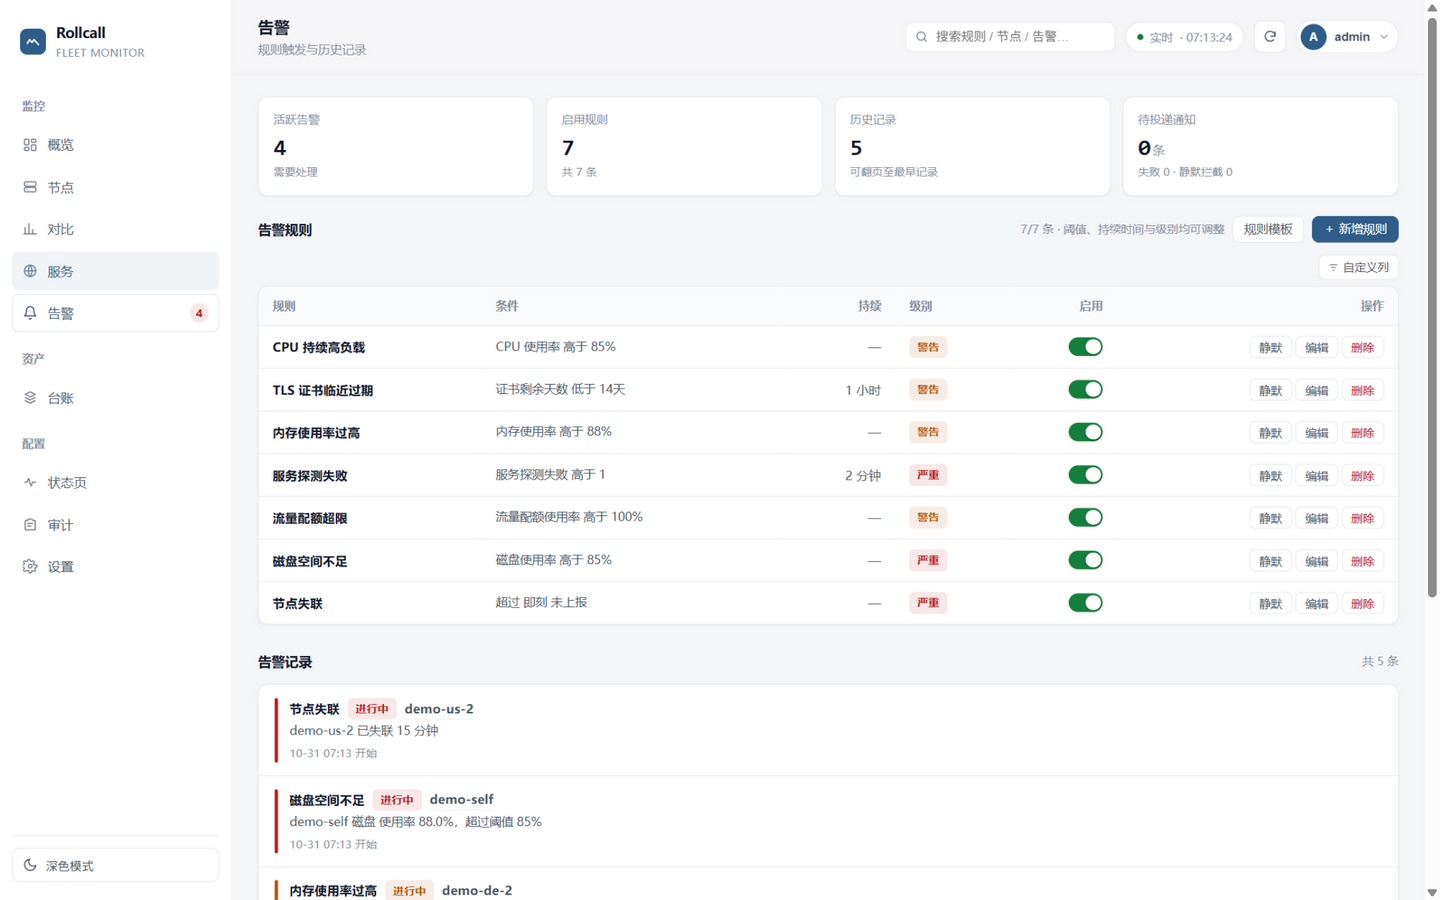
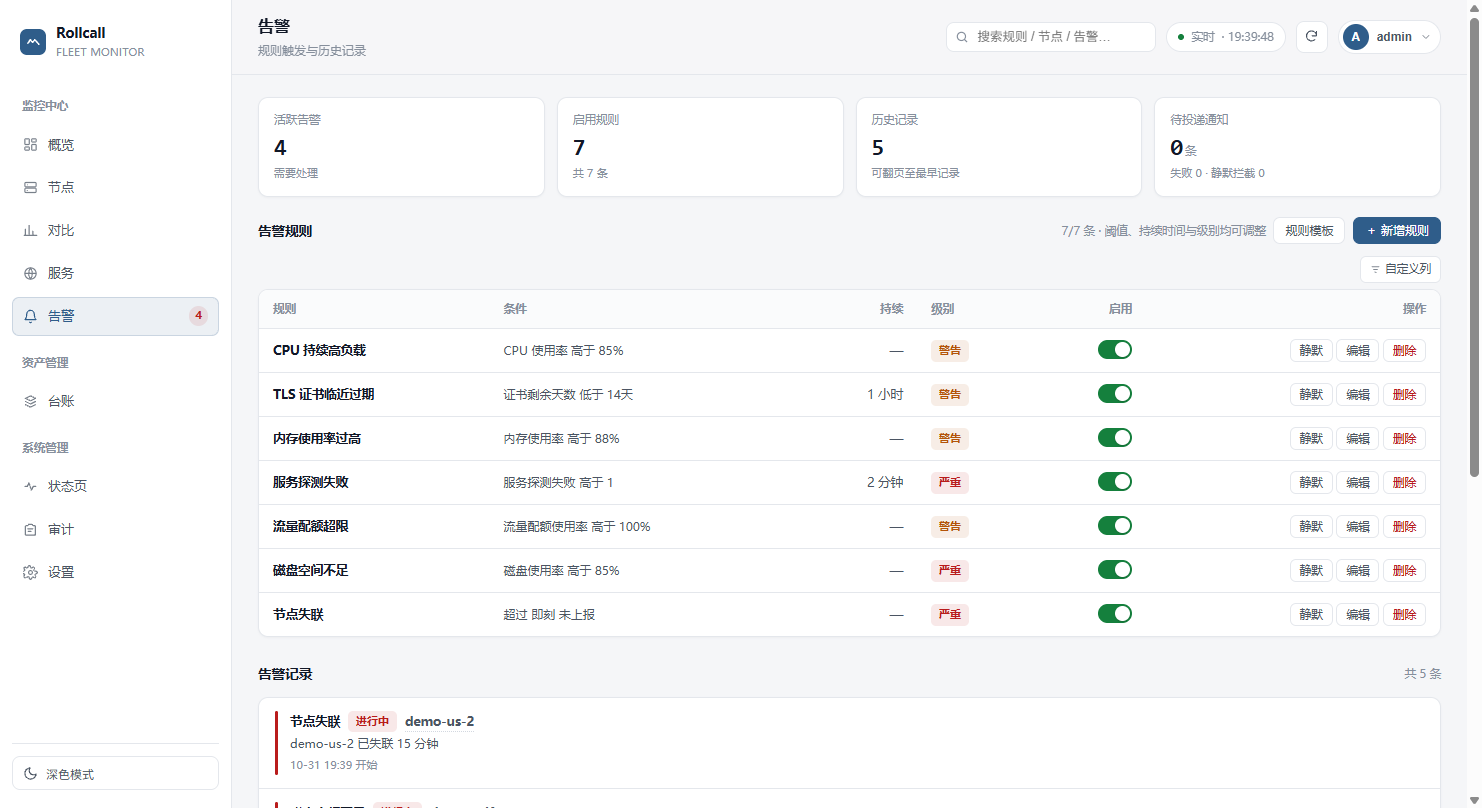
privacy: 厂商名统一——演示与文档只保留棉花云/腾讯云
- 面板演示种子（云甲…云壬）、/monitor mock（DemoVM/RackNerd/Vultr/Cera/Oracle/阿里云、
  含节点名与 mock ID）全部替换为棉花云/腾讯云；自建/家宽保留
- 输入占位符与文档示例（racknerd）改用两家里任何组合；model.go 注释同步
- netguard 的 metadata IP 注释去厂商化（保留 100.64/10 技术事实）
- 测试夹具（mcpserver/nodesimport）去厂商名
- 演示截图 9 张重拍：同步 v1.46 UI（页签式设置/侧栏分组）与新演示数据

diff --git a/monitor-panel/index.html b/monitor-panel/index.html
@@ -949,19 +949,19 @@ const RANGES = {
    缺失的（如内核、CPU 型号）显示为"未上报"而不是编造。
    ------------------------------------------------------------ */
 const NODES = [
-  { id: 'n_control', name: 'demo-control', group: '生产', provider: 'DemoHost', region: 'IN', flag: '🇮🇳',
+  { id: 'n_control', name: 'demo-control', group: '生产', provider: '棉花云', region: 'IN', flag: '🇮🇳',
     os: 'Debian 12', arch: 'x86_64', kernel: '6.1.0-18-amd64', cpuModel: 'AMD EPYC 7K62', cores: 4,
     memTotal: 8 * 2 ** 30, diskTotal: 80 * 2 ** 30,
     base: { cpu: 11, mem: 38, disk: 31, load: 0.55, rx: 1.9e6, tx: 1.2e6 }, latency: 57 },
-  { id: 'n_bestvm', name: 'demo-de', group: '生产', provider: 'DemoVM', region: 'DE', flag: '🇩🇪',
+  { id: 'n_de', name: 'demo-de', group: '生产', provider: '腾讯云', region: 'DE', flag: '🇩🇪',
     os: 'Ubuntu 24.04', arch: 'x86_64', kernel: '6.8.0-45-generic', cpuModel: 'Intel Xeon Gold 6230', cores: 6,
     memTotal: 4 * 2 ** 30, diskTotal: 100 * 2 ** 30,
     base: { cpu: 24, mem: 63, disk: 66, load: 1.2, rx: 4.4e6, tx: 3.1e6 }, latency: 78 },
-  { id: 'n_dmit', name: 'demo-lax', group: '生产', provider: 'DemoNet', region: 'US', flag: '🇺🇸',
+  { id: 'n_lax', name: 'demo-lax', group: '生产', provider: '棉花云', region: 'US', flag: '🇺🇸',
     os: 'Debian 11', arch: 'x86_64', kernel: '5.10.0-32-amd64', cpuModel: 'AMD EPYC 7402P', cores: 8,
     memTotal: 8 * 2 ** 30, diskTotal: 200 * 2 ** 30,
     base: { cpu: 31, mem: 49, disk: 22, load: 0.9, rx: 6.2e6, tx: 5.8e6 }, latency: 152 },
-  { id: 'n_hostyun', name: 'demo-hk', group: '生产', provider: 'DemoYun', region: 'HK', flag: '🇭🇰',
+  { id: 'n_hk', name: 'demo-hk', group: '生产', provider: '腾讯云', region: 'HK', flag: '🇭🇰',
     os: 'Ubuntu 22.04', arch: 'x86_64', kernel: '5.15.0-118-generic', cpuModel: 'Intel Xeon E5-2680 v4', cores: 4,
     memTotal: 4 * 2 ** 30, diskTotal: 60 * 2 ** 30,
     base: { cpu: 44, mem: 71, disk: 58, load: 1.8, rx: 8.1e6, tx: 7.3e6 }, latency: 34 },
@@ -969,27 +969,27 @@ const NODES = [
     os: 'Ubuntu 22.04', arch: 'x86_64', kernel: '5.15.0-113-generic', cpuModel: 'Intel Xeon Platinum 8255C', cores: 4,
     memTotal: 4 * 2 ** 30, diskTotal: 60 * 2 ** 30,
     base: { cpu: 18, mem: 52, disk: 47, load: 0.7, rx: 2.6e6, tx: 2.2e6 }, latency: 12 },
-  { id: 'n_ali_cd', name: 'demo-cd', group: '边缘', provider: '阿里云', region: 'CN', flag: '🇨🇳',
+  { id: 'n_cd', name: 'demo-cd', group: '边缘', provider: '棉花云', region: 'CN', flag: '🇨🇳',
     os: 'Alibaba Cloud Linux 3', arch: 'x86_64', kernel: '5.10.134-16.al8', cpuModel: 'Intel Xeon Platinum 8369B', cores: 2,
     memTotal: 4 * 2 ** 30, diskTotal: 40 * 2 ** 30,
     base: { cpu: 27, mem: 44, disk: 39, load: 0.5, rx: 1.4e6, tx: 1.1e6 }, latency: 21 },
-  { id: 'n_lvyun', name: 'demo-jp', group: '边缘', provider: 'DemoCloud', region: 'JP', flag: '🇯🇵',
+  { id: 'n_jp', name: 'demo-jp', group: '边缘', provider: '腾讯云', region: 'JP', flag: '🇯🇵',
     os: 'Debian 12', arch: 'x86_64', kernel: '6.1.0-26-amd64', cpuModel: 'Intel Xeon E5-2696 v4', cores: 2,
     memTotal: 2 * 2 ** 30, diskTotal: 40 * 2 ** 30,
     base: { cpu: 62, mem: 88, disk: 73, load: 2.4, rx: 3.3e6, tx: 2.9e6 }, latency: 96 },
-  { id: 'n_wu', name: 'cera-洛杉矶', group: '边缘', provider: 'Cera', region: 'US', flag: '🇺🇸',
+  { id: 'n_lv', name: 'demo-lv', group: '边缘', provider: '棉花云', region: 'US', flag: '🇺🇸',
     os: 'Debian 12', arch: 'x86_64', kernel: '6.1.0-21-amd64', cpuModel: 'AMD EPYC 7B13', cores: 2,
     memTotal: 2 * 2 ** 30, diskTotal: 40 * 2 ** 30,
     base: { cpu: 9, mem: 33, disk: 18, load: 0.3, rx: 1.1e6, tx: 0.9e6 }, latency: 168 },
-  { id: 'n_rn', name: 'racknerd-西雅图', group: '边缘', provider: 'RackNerd', region: 'US', flag: '🇺🇸',
+  { id: 'n_sea', name: 'demo-sea', group: '边缘', provider: '腾讯云', region: 'US', flag: '🇺🇸',
     os: 'CentOS 7', arch: 'x86_64', kernel: '3.10.0-1160.el7', cpuModel: 'Intel Xeon E5-2690 v4', cores: 2,
     memTotal: 2 * 2 ** 30, diskTotal: 30 * 2 ** 30,
     base: { cpu: 7, mem: 61, disk: 88, load: 0.2, rx: 0.7e6, tx: 0.5e6 }, latency: 189 },
-  { id: 'n_vultr', name: 'vultr-法兰克福', group: '边缘', provider: 'Vultr', region: 'DE', flag: '🇩🇪',
+  { id: 'n_fr', name: 'demo-fr', group: '边缘', provider: '棉花云', region: 'DE', flag: '🇩🇪',
     os: 'Ubuntu 24.04', arch: 'x86_64', kernel: '6.8.0-41-generic', cpuModel: 'AMD EPYC 7R13', cores: 2,
     memTotal: 4 * 2 ** 30, diskTotal: 80 * 2 ** 30,
     base: { cpu: 15, mem: 29, disk: 26, load: 0.4, rx: 1.6e6, tx: 1.3e6 }, latency: 142 },
-  { id: 'n_oracle', name: 'oracle-大阪', group: '实验', provider: 'Oracle', region: 'JP', flag: '🇯🇵',
+  { id: 'n_osaka', name: 'demo-osaka', group: '实验', provider: '腾讯云', region: 'JP', flag: '🇯🇵',
     os: 'Ubuntu 22.04', arch: 'aarch64', kernel: '5.15.0-119-generic', cpuModel: 'Ampere Altra Q80-30', cores: 4,
     memTotal: 24 * 2 ** 30, diskTotal: 200 * 2 ** 30,
     base: { cpu: 5, mem: 17, disk: 9, load: 0.12, rx: 0.4e6, tx: 0.3e6 }, latency: 88 },
@@ -997,7 +997,7 @@ const NODES = [
     os: 'Debian 12', arch: 'x86_64', kernel: '6.1.0-25-amd64', cpuModel: 'Intel N100', cores: 4,
     memTotal: 16 * 2 ** 30, diskTotal: 500 * 2 ** 30,
     base: { cpu: 21, mem: 34, disk: 41, load: 0.8, rx: 5.1e6, tx: 4.2e6 }, latency: 8 },
-  { id: 'n_test', name: 'test-01', group: '实验', provider: '阿里云', region: 'CN', flag: '🇨🇳',
+  { id: 'n_test', name: 'test-01', group: '实验', provider: '棉花云', region: 'CN', flag: '🇨🇳',
     os: 'Debian 12', arch: 'x86_64', kernel: '6.1.0-18-cloud-amd64', cpuModel: 'Intel Xeon Platinum 8269CY', cores: 2,
     memTotal: 2 * 2 ** 30, diskTotal: 40 * 2 ** 30,
     base: { cpu: 3, mem: 22, disk: 15, load: 0.08, rx: 0.2e6, tx: 0.15e6 }, latency: 19 },

diff --git a/internal/web/dist/monitor.js b/internal/web/dist/monitor.js
@@ -45,19 +45,19 @@ const RANGES = {
    缺失的（如内核、CPU 型号）显示为"未上报"而不是编造。
    ------------------------------------------------------------ */
 const NODES = [
-  { id: 'n_control', name: 'demo-control', group: '生产', provider: 'DemoHost', region: 'IN', flag: '🇮🇳',
+  { id: 'n_control', name: 'demo-control', group: '生产', provider: '棉花云', region: 'IN', flag: '🇮🇳',
     os: 'Debian 12', arch: 'x86_64', kernel: '6.1.0-18-amd64', cpuModel: 'AMD EPYC 7K62', cores: 4,
     memTotal: 8 * 2 ** 30, diskTotal: 80 * 2 ** 30,
     base: { cpu: 11, mem: 38, disk: 31, load: 0.55, rx: 1.9e6, tx: 1.2e6 }, latency: 57 },
-  { id: 'n_bestvm', name: 'demo-de', group: '生产', provider: 'DemoVM', region: 'DE', flag: '🇩🇪',
+  { id: 'n_de', name: 'demo-de', group: '生产', provider: '腾讯云', region: 'DE', flag: '🇩🇪',
     os: 'Ubuntu 24.04', arch: 'x86_64', kernel: '6.8.0-45-generic', cpuModel: 'Intel Xeon Gold 6230', cores: 6,
     memTotal: 4 * 2 ** 30, diskTotal: 100 * 2 ** 30,
     base: { cpu: 24, mem: 63, disk: 66, load: 1.2, rx: 4.4e6, tx: 3.1e6 }, latency: 78 },
-  { id: 'n_dmit', name: 'demo-lax', group: '生产', provider: 'DemoNet', region: 'US', flag: '🇺🇸',
+  { id: 'n_lax', name: 'demo-lax', group: '生产', provider: '棉花云', region: 'US', flag: '🇺🇸',
     os: 'Debian 11', arch: 'x86_64', kernel: '5.10.0-32-amd64', cpuModel: 'AMD EPYC 7402P', cores: 8,
     memTotal: 8 * 2 ** 30, diskTotal: 200 * 2 ** 30,
     base: { cpu: 31, mem: 49, disk: 22, load: 0.9, rx: 6.2e6, tx: 5.8e6 }, latency: 152 },
-  { id: 'n_hostyun', name: 'demo-hk', group: '生产', provider: 'DemoYun', region: 'HK', flag: '🇭🇰',
+  { id: 'n_hk', name: 'demo-hk', group: '生产', provider: '腾讯云', region: 'HK', flag: '🇭🇰',
     os: 'Ubuntu 22.04', arch: 'x86_64', kernel: '5.15.0-118-generic', cpuModel: 'Intel Xeon E5-2680 v4', cores: 4,
     memTotal: 4 * 2 ** 30, diskTotal: 60 * 2 ** 30,
     base: { cpu: 44, mem: 71, disk: 58, load: 1.8, rx: 8.1e6, tx: 7.3e6 }, latency: 34 },
@@ -65,27 +65,27 @@ const NODES = [
     os: 'Ubuntu 22.04', arch: 'x86_64', kernel: '5.15.0-113-generic', cpuModel: 'Intel Xeon Platinum 8255C', cores: 4,
     memTotal: 4 * 2 ** 30, diskTotal: 60 * 2 ** 30,
     base: { cpu: 18, mem: 52, disk: 47, load: 0.7, rx: 2.6e6, tx: 2.2e6 }, latency: 12 },
-  { id: 'n_ali_cd', name: 'demo-cd', group: '边缘', provider: '阿里云', region: 'CN', flag: '🇨🇳',
+  { id: 'n_cd', name: 'demo-cd', group: '边缘', provider: '棉花云', region: 'CN', flag: '🇨🇳',
     os: 'Alibaba Cloud Linux 3', arch: 'x86_64', kernel: '5.10.134-16.al8', cpuModel: 'Intel Xeon Platinum 8369B', cores: 2,
     memTotal: 4 * 2 ** 30, diskTotal: 40 * 2 ** 30,
     base: { cpu: 27, mem: 44, disk: 39, load: 0.5, rx: 1.4e6, tx: 1.1e6 }, latency: 21 },
-  { id: 'n_lvyun', name: 'demo-jp', group: '边缘', provider: 'DemoCloud', region: 'JP', flag: '🇯🇵',
+  { id: 'n_jp', name: 'demo-jp', group: '边缘', provider: '腾讯云', region: 'JP', flag: '🇯🇵',
     os: 'Debian 12', arch: 'x86_64', kernel: '6.1.0-26-amd64', cpuModel: 'Intel Xeon E5-2696 v4', cores: 2,
     memTotal: 2 * 2 ** 30, diskTotal: 40 * 2 ** 30,
     base: { cpu: 62, mem: 88, disk: 73, load: 2.4, rx: 3.3e6, tx: 2.9e6 }, latency: 96 },
-  { id: 'n_wu', name: 'cera-洛杉矶', group: '边缘', provider: 'Cera', region: 'US', flag: '🇺🇸',
+  { id: 'n_lv', name: 'demo-lv', group: '边缘', provider: '棉花云', region: 'US', flag: '🇺🇸',
     os: 'Debian 12', arch: 'x86_64', kernel: '6.1.0-21-amd64', cpuModel: 'AMD EPYC 7B13', cores: 2,
     memTotal: 2 * 2 ** 30, diskTotal: 40 * 2 ** 30,
     base: { cpu: 9, mem: 33, disk: 18, load: 0.3, rx: 1.1e6, tx: 0.9e6 }, latency: 168 },
-  { id: 'n_rn', name: 'racknerd-西雅图', group: '边缘', provider: 'RackNerd', region: 'US', flag: '🇺🇸',
+  { id: 'n_sea', name: 'demo-sea', group: '边缘', provider: '腾讯云', region: 'US', flag: '🇺🇸',
     os: 'CentOS 7', arch: 'x86_64', kernel: '3.10.0-1160.el7', cpuModel: 'Intel Xeon E5-2690 v4', cores: 2,
     memTotal: 2 * 2 ** 30, diskTotal: 30 * 2 ** 30,
     base: { cpu: 7, mem: 61, disk: 88, load: 0.2, rx: 0.7e6, tx: 0.5e6 }, latency: 189 },
-  { id: 'n_vultr', name: 'vultr-法兰克福', group: '边缘', provider: 'Vultr', region: 'DE', flag: '🇩🇪',
+  { id: 'n_fr', name: 'demo-fr', group: '边缘', provider: '棉花云', region: 'DE', flag: '🇩🇪',
     os: 'Ubuntu 24.04', arch: 'x86_64', kernel: '6.8.0-41-generic', cpuModel: 'AMD EPYC 7R13', cores: 2,
     memTotal: 4 * 2 ** 30, diskTotal: 80 * 2 ** 30,
     base: { cpu: 15, mem: 29, disk: 26, load: 0.4, rx: 1.6e6, tx: 1.3e6 }, latency: 142 },
-  { id: 'n_oracle', name: 'oracle-大阪', group: '实验', provider: 'Oracle', region: 'JP', flag: '🇯🇵',
+  { id: 'n_osaka', name: 'demo-osaka', group: '实验', provider: '腾讯云', region: 'JP', flag: '🇯🇵',
     os: 'Ubuntu 22.04', arch: 'aarch64', kernel: '5.15.0-119-generic', cpuModel: 'Ampere Altra Q80-30', cores: 4,
     memTotal: 24 * 2 ** 30, diskTotal: 200 * 2 ** 30,
     base: { cpu: 5, mem: 17, disk: 9, load: 0.12, rx: 0.4e6, tx: 0.3e6 }, latency: 88 },
@@ -93,7 +93,7 @@ const NODES = [
     os: 'Debian 12', arch: 'x86_64', kernel: '6.1.0-25-amd64', cpuModel: 'Intel N100', cores: 4,
     memTotal: 16 * 2 ** 30, diskTotal: 500 * 2 ** 30,
     base: { cpu: 21, mem: 34, disk: 41, load: 0.8, rx: 5.1e6, tx: 4.2e6 }, latency: 8 },
-  { id: 'n_test', name: 'test-01', group: '实验', provider: '阿里云', region: 'CN', flag: '🇨🇳',
+  { id: 'n_test', name: 'test-01', group: '实验', provider: '棉花云', region: 'CN', flag: '🇨🇳',
     os: 'Debian 12', arch: 'x86_64', kernel: '6.1.0-18-cloud-amd64', cpuModel: 'Intel Xeon Platinum 8269CY', cores: 2,
     memTotal: 2 * 2 ** 30, diskTotal: 40 * 2 ** 30,
     base: { cpu: 3, mem: 22, disk: 15, load: 0.08, rx: 0.2e6, tx: 0.15e6 }, latency: 19 },

diff --git a/internal/web/dist/app.js b/internal/web/dist/app.js
@@ -1367,7 +1367,7 @@ function bindBatchOps(list) {
   const reload = () => { state.data.nodes = null; viewNodes(); };
   const PROMPTS = {
     group: { label: '新分组名', ph: '例如：prod', def: '' },
-    provider: { label: '服务商', ph: '例如：racknerd', def: '' },
+    provider: { label: '服务商', ph: '例如：棉花云', def: '' },
     region: { label: '地区', ph: '例如：香港', def: '' },
     expire: { label: '到期日（YYYY-MM-DD，留空清除）', ph: '2027-01-31', def: '' },
     currency: { label: '币种（USD / CNY）', ph: 'USD', def: 'USD' },
@@ -3905,7 +3905,7 @@ async function viewSettings() {
         <form id="nodeImportForm">
           <label class="field">
             <span class="field-label">节点列表</span>
-            <textarea name="list" rows="5" placeholder="香港-01,racknerd,圣何塞,US,prod
+            <textarea name="list" rows="5" placeholder="香港-01,腾讯云,香港,CN,prod
 东京-02,绿云,东京,JP,prod"></textarea>
           </label>
           <div class="form-actions"><button class="btn primary" type="submit">导入并生成接入命令</button></div>
@@ -3915,7 +3915,7 @@ async function viewSettings() {
         <summary class="sum">＋ 新增节点</summary>
         <form id="nodeForm" class="form-grid">
           ${field('名称', 'name', '', { required: true, placeholder: '例如 prod-01', hint: '会显示在公开状态页，勿填主机名/IP' })}
-          ${field('服务商', 'provider', '', { placeholder: 'racknerd / 腾讯云 …' })}
+          ${field('服务商', 'provider', '', { placeholder: '棉花云 / 腾讯云 …' })}
           ${field('位置', 'region', '', { placeholder: '美国 / 香港 …' })}
           ${field('国家代码', 'country', '', { placeholder: 'US / JP / DE', hint: '两位 ISO 代码，用于公开页分布图' })}
           ${field('分组', 'group', '', { placeholder: 'prod / test' })}
@@ -5953,7 +5953,7 @@ function showNodeEdit(n, after) {
     <p class="modal-sub">节点名称会显示在公开状态页，请勿填写主机名、IP 或可识别信息。</p>
     <form id="editNodeForm" class="form-grid">
       ${field('名称', 'name', n.name, { required: true, placeholder: '例如 prod-01' })}
-      ${field('服务商', 'provider', n.provider, { placeholder: 'racknerd / 腾讯云 …' })}
+      ${field('服务商', 'provider', n.provider, { placeholder: '棉花云 / 腾讯云 …' })}
       ${field('位置', 'region', n.region, { placeholder: '美国 / 香港 …' })}
       ${field('国家代码', 'country', n.country, { placeholder: 'US / JP / DE', hint: '两位 ISO 代码，公开页分布图使用' })}
       ${field('分组', 'group', n.group, { placeholder: 'prod / test' })}
@@ -7024,8 +7024,8 @@ function showAgentWizard() {
     <div class="modal-title">接入新节点</div>
     <p class="modal-sub">填写台账信息并创建，随后会生成一条在目标服务器上执行的安装命令。</p>
     <form id="wizardForm" class="form-grid">
-      ${field('名称', 'name', '', { required: true, placeholder: '例如 racknerd-纽约' })}
-      ${field('服务商', 'provider', '', { placeholder: 'racknerd / 腾讯云 …' })}
+      ${field('名称', 'name', '', { required: true, placeholder: '例如 腾讯云-上海' })}
+      ${field('服务商', 'provider', '', { placeholder: '棉花云 / 腾讯云 …' })}
       ${field('位置', 'region', '', { placeholder: '美国 / 香港 …' })}
       ${field('分组', 'group', 'prod', { placeholder: 'prod / test / probe' })}
       ${field('到期日', 'expireAt', '', { placeholder: '2027-06-01' })}

diff --git a/cmd/server/seed.go b/cmd/server/seed.go
@@ -21,20 +21,20 @@ func seedDemo(st *store.Store) {
 	}
 
 	specs := []spec{
-		{"n01", "demo-sg", "云甲", "新加坡", "prod", "2030-03-07", "Debian 12", 0, "CNY", 22, 38, 58},
-		{"n02", "demo-sh", "云甲", "上海", "prod", "2027-06-12", "Debian 13", 0, "CNY", 34, 55, 71},
-		{"n03", "demo-cd", "云乙", "成都", "prod", "2027-01-20", "Ubuntu 22.04", 0, "CNY", 18, 44, 62},
-		{"n04", "demo-hk", "云丙", "香港", "prod", "2026-12-01", "Ubuntu 22.04", 0, "CNY", 27, 41, 49},
-		{"n05", "demo-de-1", "云丁", "德国", "probe", "2027-03-15", "Debian 12", 6.5, "USD", 12, 31, 34},
-		{"n06", "demo-de-2", "云丁", "德国", "prod", "2027-08-02", "Debian 12", 14.0, "USD", 41, 63, 77},
-		{"n07", "demo-us-1", "云戊", "美国", "probe", "2027-02-18", "Debian 12", 11.0, "USD", 8, 22, 28},
-		{"n08", "demo-us-2", "云戊", "美国", "probe", "2026-11-09", "Debian 12", 11.0, "USD", 16, 37, 41},
-		{"n09", "demo-us-3", "云戊", "美国", "test", "2026-10-28", "Debian 12", 9.5, "USD", 5, 19, 23},
-		{"n10", "demo-us-4", "云己", "美国", "prod", "2027-05-30", "Debian 12", 49.9, "USD", 33, 52, 66},
-		{"n11", "demo-us-5", "云己", "美国", "prod", "2027-04-11", "Debian 12", 36.9, "USD", 45, 58, 72},
-		{"n12", "demo-hk-2", "云庚", "香港", "probe", "2026-12-25", "Debian 12", 0, "CNY", 9, 26, 31},
-		{"n13", "demo-tw", "云辛", "台湾", "probe", "2027-07-19", "Debian 12", 18.0, "USD", 14, 29, 38},
-		{"n14", "demo-us-6", "云壬", "美国", "test", "2026-11-30", "CentOS 7", 7.0, "USD", 3, 17, 21},
+		{"n01", "demo-sg", "棉花云", "新加坡", "prod", "2030-03-07", "Debian 12", 0, "CNY", 22, 38, 58},
+		{"n02", "demo-sh", "棉花云", "上海", "prod", "2027-06-12", "Debian 13", 0, "CNY", 34, 55, 71},
+		{"n03", "demo-cd", "腾讯云", "成都", "prod", "2027-01-20", "Ubuntu 22.04", 0, "CNY", 18, 44, 62},
+		{"n04", "demo-hk", "棉花云", "香港", "prod", "2026-12-01", "Ubuntu 22.04", 0, "CNY", 27, 41, 49},
+		{"n05", "demo-de-1", "腾讯云", "德国", "probe", "2027-03-15", "Debian 12", 6.5, "USD", 12, 31, 34},
+		{"n06", "demo-de-2", "腾讯云", "德国", "prod", "2027-08-02", "Debian 12", 14.0, "USD", 41, 63, 77},
+		{"n07", "demo-us-1", "棉花云", "美国", "probe", "2027-02-18", "Debian 12", 11.0, "USD", 8, 22, 28},
+		{"n08", "demo-us-2", "棉花云", "美国", "probe", "2026-11-09", "Debian 12", 11.0, "USD", 16, 37, 41},
+		{"n09", "demo-us-3", "棉花云", "美国", "test", "2026-10-28", "Debian 12", 9.5, "USD", 5, 19, 23},
+		{"n10", "demo-us-4", "腾讯云", "美国", "prod", "2027-05-30", "Debian 12", 49.9, "USD", 33, 52, 66},
+		{"n11", "demo-us-5", "腾讯云", "美国", "prod", "2027-04-11", "Debian 12", 36.9, "USD", 45, 58, 72},
+		{"n12", "demo-hk-2", "棉花云", "香港", "probe", "2026-12-25", "Debian 12", 0, "CNY", 9, 26, 31},
+		{"n13", "demo-tw", "腾讯云", "台湾", "probe", "2027-07-19", "Debian 12", 18.0, "USD", 14, 29, 38},
+		{"n14", "demo-us-6", "棉花云", "美国", "test", "2026-11-30", "CentOS 7", 7.0, "USD", 3, 17, 21},
 		{"n15", "demo-self", "自建", "华东", "prod", "2029-01-01", "Ubuntu 24.04", 0, "CNY", 52, 68, 88},
 	}
 

diff --git a/internal/netguard/netguard_test.go b/internal/netguard/netguard_test.go
@@ -34,7 +34,7 @@ func TestCheckIPPolicy(t *testing.T) {
 		{"100.64.0.1", false, true},
 		{"100.64.0.1", true, false}, // Tailscale 等 CGNAT 组网
 		// 落在 CGNAT / ULA 段内的云元数据地址，即使允许私网也必须拒绝
-		{"100.100.100.200", true, true}, // 阿里云 metadata
+		{"100.100.100.200", true, true}, // 云厂商 metadata
 		{"fd00:ec2::254", true, true},   // AWS IPv6 metadata
 		// 不可路由的保留网段：即使允许私网也应拒绝
 		{"203.0.113.9", true, true}, // TEST-NET-3

diff --git a/internal/web/nodesimport_test.go b/internal/web/nodesimport_test.go
@@ -46,7 +46,7 @@ type importResp struct {
 func TestNodesImportCreatesAndReturnsCommands(t *testing.T) {
 	st, h := importEnv(t)
 	body := `{"nodes":[
-		{"name":"迁移-01","provider":"racknerd","region":"圣何塞","country":"US","group":"prod","price":29.9,"expireAt":"2027-06-01"},
+		{"name":"迁移-01","provider":"棉花云","region":"圣何塞","country":"US","group":"prod","price":29.9,"expireAt":"2027-06-01"},
 		{"name":"迁移-02","region":"东京","country":"JP"}
 	]}`
 	w := importPost(h, body)

diff --git a/internal/netguard/netguard.go b/internal/netguard/netguard.go
@@ -42,7 +42,7 @@ var reservedIPv4 = []*net.IPNet{
 //
 // 169.254.169.254 等链路本地地址已由 IsLinkLocalUnicast 覆盖；
 // 以下两个落在 CGNAT / ULA 段内，会被 AllowPrivate 放行，故单独列出：
-//   - 100.100.100.200  阿里云（100.64/10 CGNAT）
+//   - 100.100.100.200  云厂商（100.64/10 CGNAT）
 //   - fd00:ec2::254    AWS IPv6（fc00::/7 ULA）
 //
 // 元数据服务永远不是合法的「自建内网服务」目标；一旦放行，

diff --git a/internal/model/model.go b/internal/model/model.go
@@ -12,7 +12,7 @@ import (
 type Node struct {
 	ID       string  `json:"id"`
 	Name     string  `json:"name"`
-	Provider string  `json:"provider"` // 服务商：racknerd / netcup / 棉花云…
+	Provider string  `json:"provider"` // 服务商：棉花云 / 腾讯云…
 	Region   string  `json:"region"`   // 地区
 	Group    string  `json:"group"`    // 分组：prod / test / probe
 	Note     string  `json:"note"`

diff --git a/internal/mcpserver/mcpserver_test.go b/internal/mcpserver/mcpserver_test.go
@@ -24,7 +24,7 @@ func newTestBackend(t *testing.T, gotAuth *string) *httptest.Server {
 			w.WriteHeader(401)
 			return
 		}
-		io.WriteString(w, `{"id":"n1","name":"racknerd-dc02"}`)
+		io.WriteString(w, `{"id":"n1","name":"demo-dc02"}`)
 	})
 	mux.HandleFunc("/api/nodes/n1/series", func(w http.ResponseWriter, r *http.Request) {
 		io.WriteString(w, `{"range":"`+r.URL.Query().Get("range")+`","points":2}`)

diff --git a/README.md b/README.md
@@ -762,7 +762,7 @@ sudo systemctl start rollcall-server
 TOKEN=$(sudo cat /opt/rollcall/data/admin.token)
 curl -s -X POST http://127.0.0.1:19080/api/admin/nodes \
   -H "X-Admin-Token: $TOKEN" -H "Content-Type: application/json" \
-  -d '{"name":"节点名","provider":"racknerd","region":"美国","group":"prod"}'
+  -d '{"name":"节点名","provider":"腾讯云","region":"美国","group":"prod"}'
 ```
 
 把 `rollcall-agent` 和 `deploy/rollcall-agent.service` 上传到目标节点后执行：

diff --git a/docs/operations.md b/docs/operations.md
@@ -823,7 +823,7 @@ ExecStart=/opt/rollcall/rollcall-server -addr 127.0.0.1:19080 -data /opt/rollcal
 
 ```
 # 名称,服务商,地区,国家,分组（后四项可留空）
-香港-01,racknerd,圣何塞,US,prod
+香港-01,腾讯云,香港,CN,prod
 东京-02,绿云,东京,JP,prod
 ```
 
